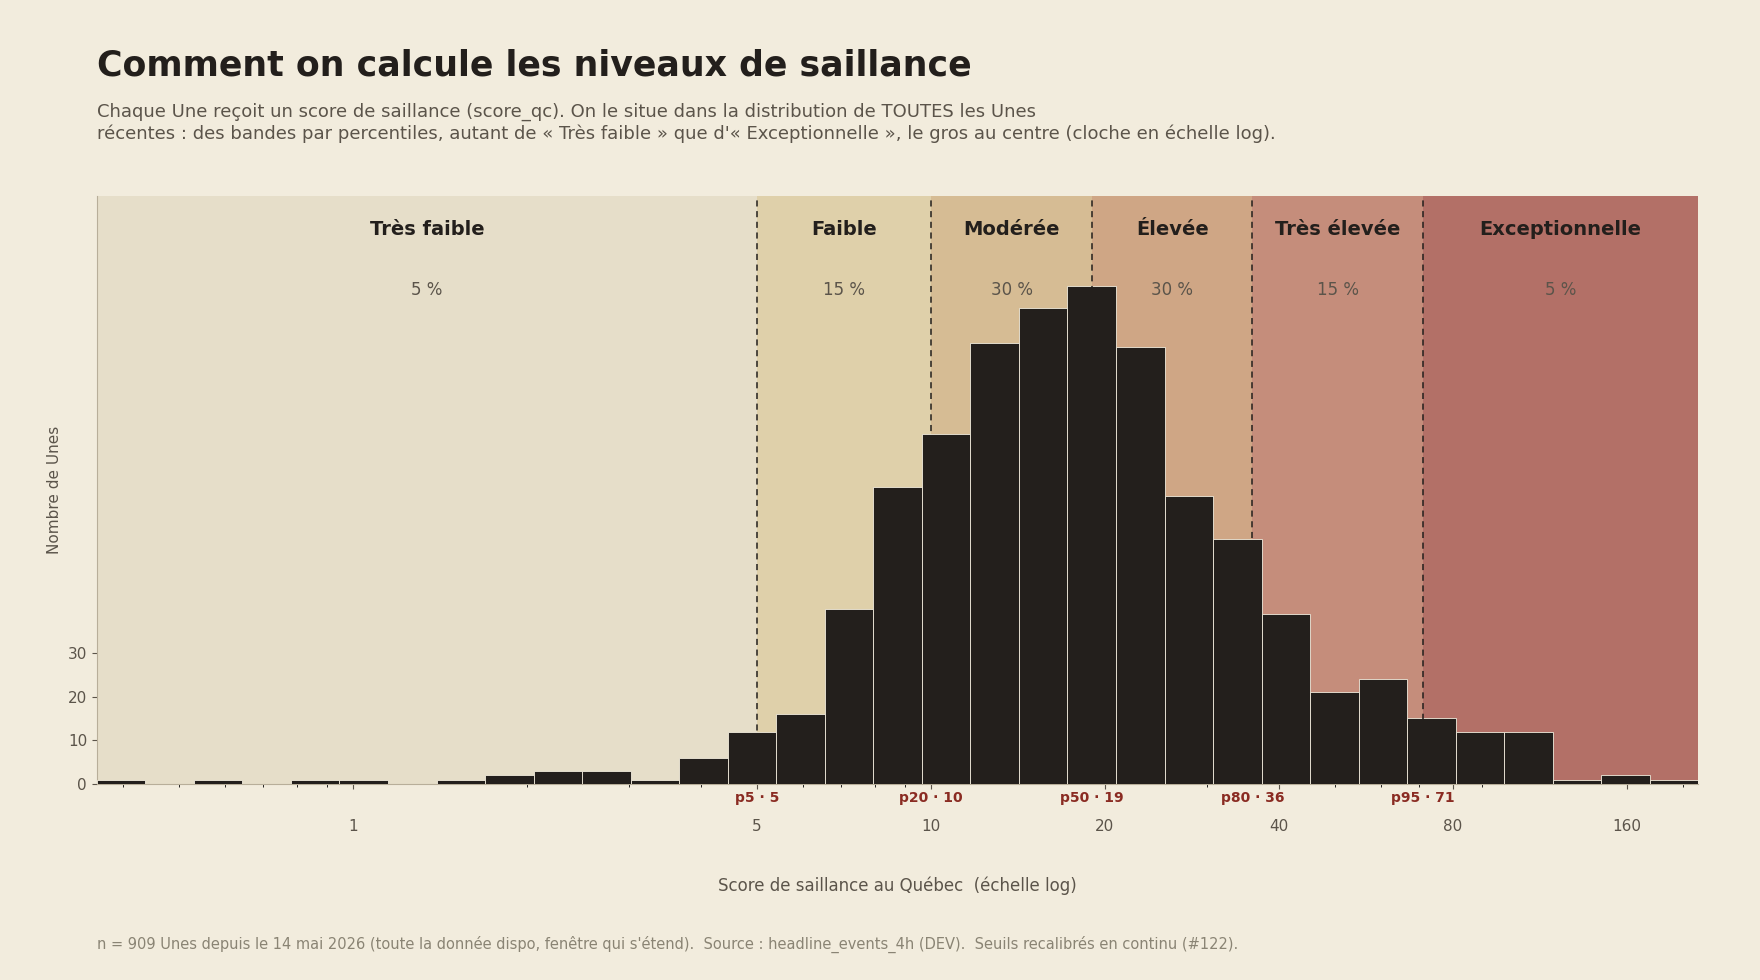
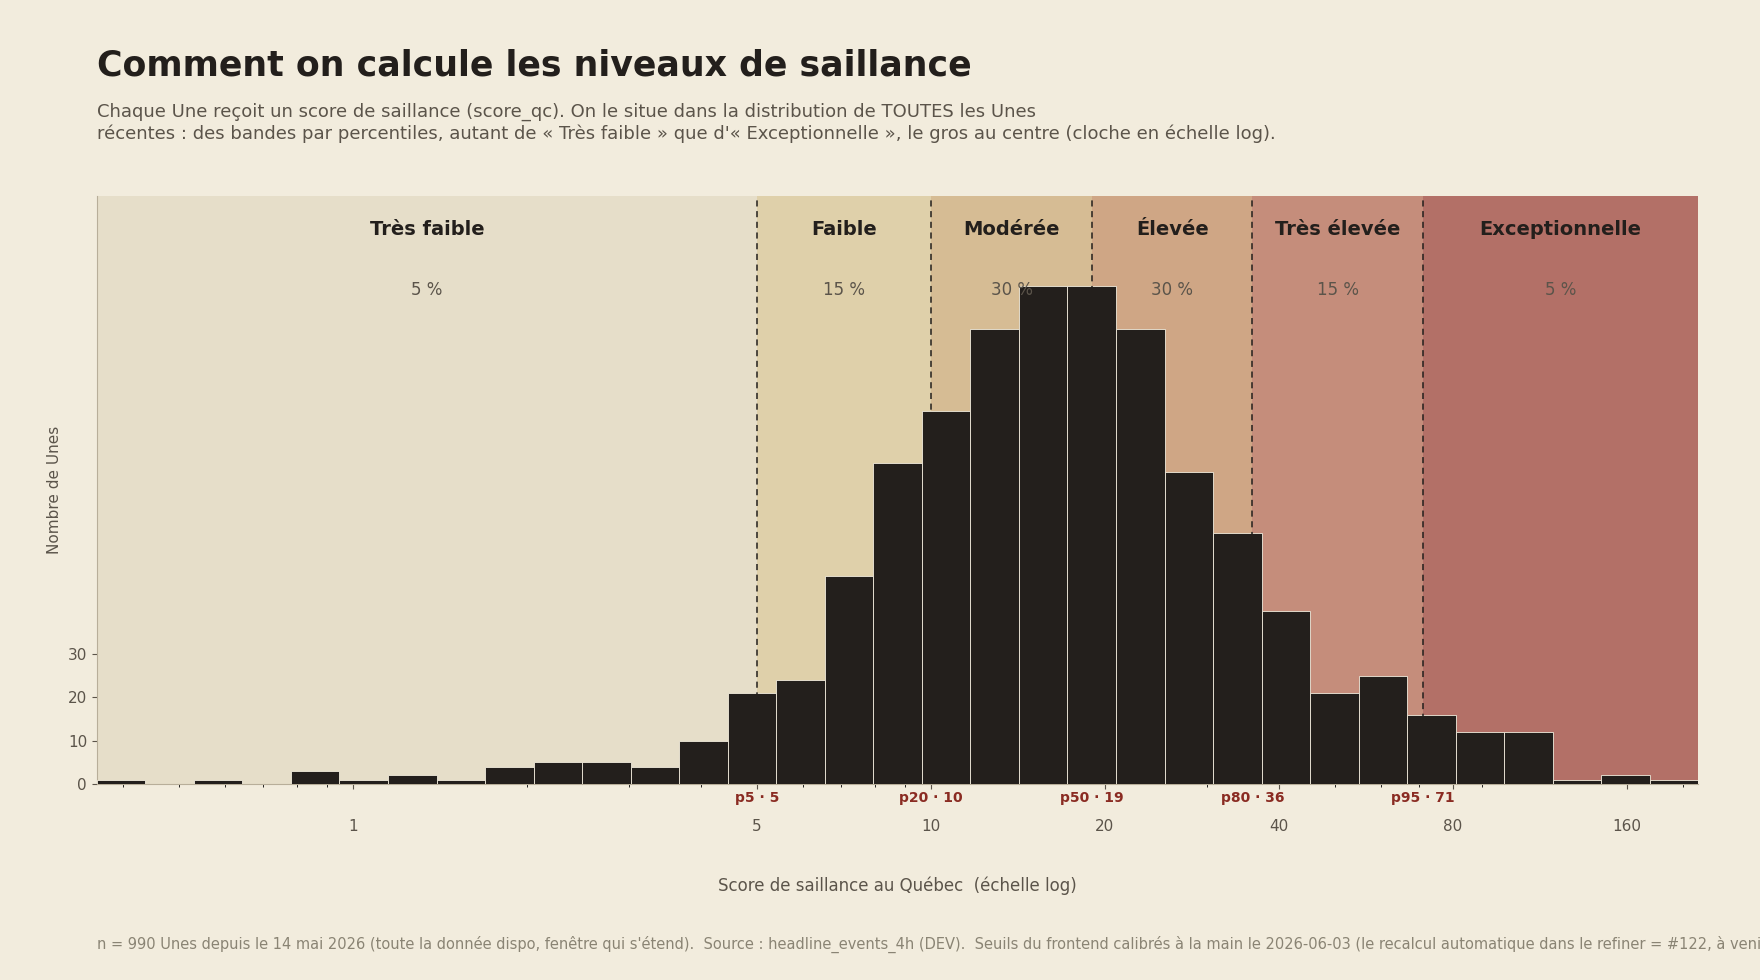
docs(métho): régénérer saillance-niveaux.png — « Exceptionnelle », n=990 Unes
- L'image affichait encore « Extrême » (renommé par #204/#138) : régénérée
  sur les 990 Unes uniques actuelles (406 au calibrage de juin).
- Pied de page corrigé (FAIT vs VISION) : les seuils sont calibrés à la
  main (2026-06-03), le recalcul automatique dans le refiner reste #122.
- Dérive constatée au passage (nourrit #122/phase C) : percentiles réels
  5.2/9.4/16.6/30.0/62.5 vs seuils 5/10/19/36/71 → bandes réelles
  4.1/17.5/34.9/29.4/10.2/3.8 % au lieu de 5/15/30/30/15/5.

diff --git a/scripts/generate_saillance_levels.py b/scripts/generate_saillance_levels.py
@@ -109,7 +109,7 @@ fig.text(0.055, 0.895,
          fontsize=13, color="#5B544A", ha="left", va="top")
 fig.text(0.055, 0.028,
          f"n = {n} Unes depuis le 14 mai 2026 (toute la donnée dispo, fenêtre qui s'étend).  "
-         "Source : headline_events_4h (DEV).  Seuils recalibrés en continu (#122).",
+         "Source : headline_events_4h (DEV).  Seuils du frontend calibrés à la main le 2026-06-03 (le recalcul automatique dans le refiner = #122, à venir).",
          fontsize=10.5, color="#8A8474", ha="left", va="bottom")
 
 plt.subplots_adjust(left=0.055, right=0.965, top=0.80, bottom=0.20)
